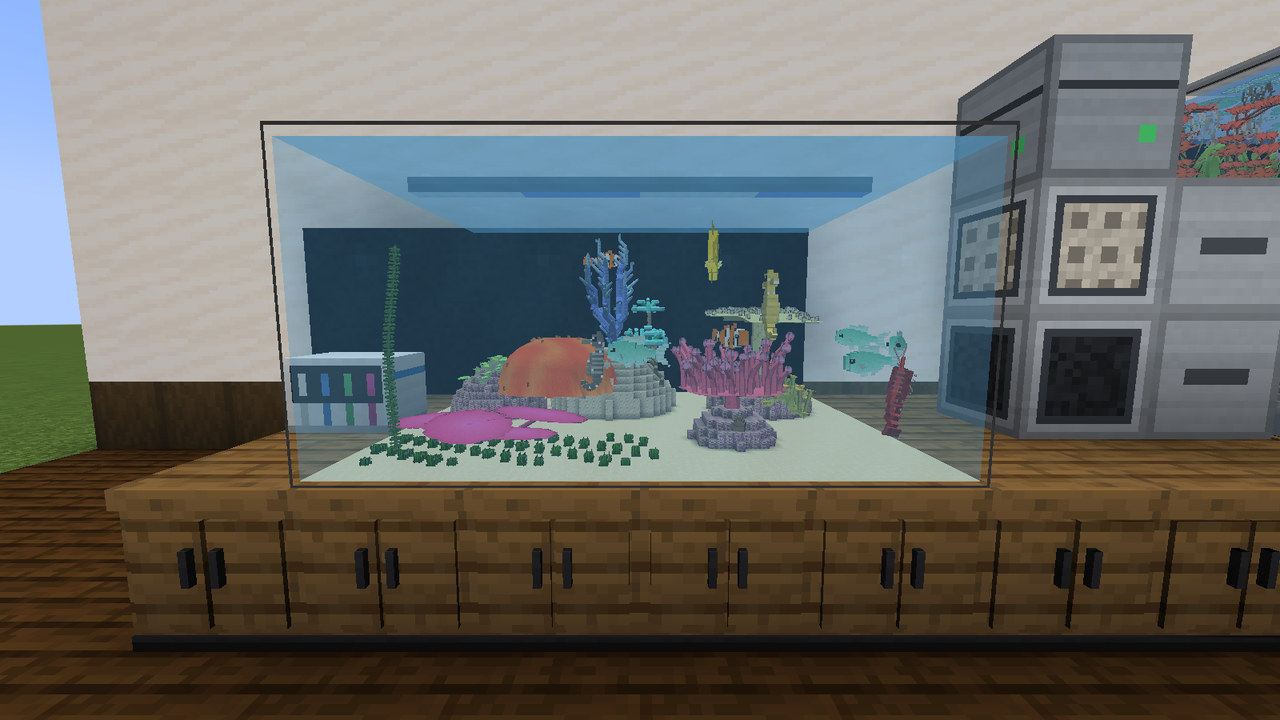
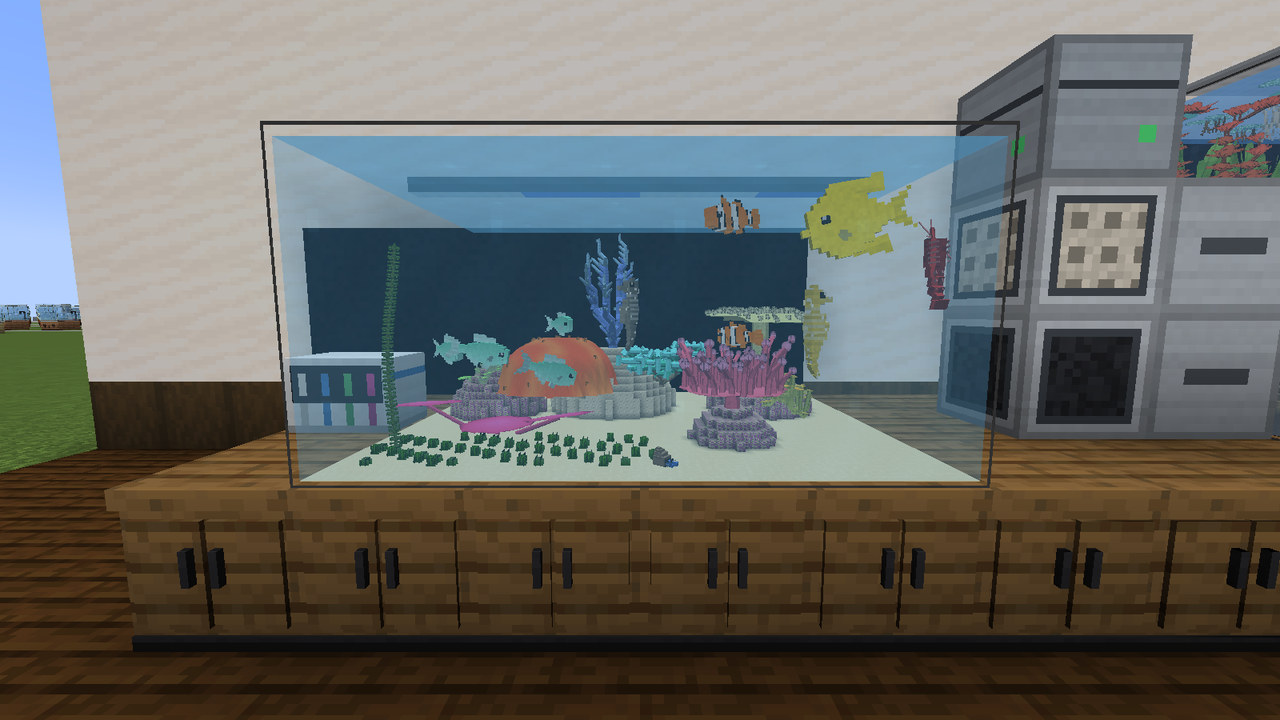
M43: new README and CurseForge media from the showcase world (flaring betta, plant growth time lapse, Amazon and shrimp tanks, terraria, pets, filter lines, shader stills; room, planted, reef, varieties, interior and menus taken again), the mod page English only with the feature sections, FAQ and ac

diff --git a/docs/description.md b/docs/description.md
@@ -2,10 +2,11 @@
 
 # Bettacraft
 
-**Betta fish and real aquariums for Minecraft 1.21.1 (NeoForge).** Catch wild bettas and tankmates, keep them in
-multiblock aquariums of any glass and shape, aquascape the inside block by block with plants and corals that sway in the
-water, run filters, lights, CO2, pipes and reef dosing, culture live food, and breed new colours with real Mendel
-genetics. Made for big modpacks such as All the Mods 10, and fine on its own.
+**Realistic fishkeeping in Minecraft 1.21.1 (NeoForge).** Catch wild bettas and tankmates, keep them in multiblock
+aquariums of any glass and shape, aquascape the inside block by block with plants and corals that sway in the water, run
+filters, lights, CO2, pipes and reef dosing, culture live food, and breed new colours with real Mendel genetics. Water
+chemistry, temperature, stocking and food all matter, the way they do in a real tank. Made for big modpacks such as All
+the Mods 10, and fine on its own.
 
 ![An aquarium room: a reef tank, a planted show tank with LED panels, CO2 and a multiblock filter, and a betta nano tank](images/bettacraft-aquarium-room.jpg)
 
@@ -22,25 +23,26 @@ genetics. Made for big modpacks such as All the Mods 10, and fine on its own.
 - **Breeding:** condition the pair with live food, give them floating plants for the bubble nest, and raise eggs,
   larvae and fry through six life stages on infusoria and artemia that you culture yourself. Two adult males flare and
   fight, also at a mirror stick. The breeding tab shows Punnett squares.
-- **Two sizes:** Normal (the default) or Large (the size before 1.28), one server setting for everyone; only the look
-  and the hitbox change.
+- **Two sizes:** Normal (the default, close to a real betta next to a block) or Large, one server setting for everyone;
+  only the look and the hitbox change.
 
 ![Six betta varieties: Koi Galaxy, Black Orchid, Mustard Gas, Samurai, Avatar, Hellboy](images/bettacraft-betta-varieties.jpg)
 
-## Aquariums you build yourself
+![A Mustard Gas halfmoon male spreads its fins and flares](images/bettacraft-betta-flaring.gif)
+
+## Tanks and the interior
 
 - **Multiblock tanks** of any glass and any connected shape (box, L, T, steps ...), up to 16x16x16 (configurable up to
-  64; big tanks up to 32x16x32), with the connected texture of the glass or perfectly clear. Real vanilla water, filled bucket by bucket, and the
-  animals are real entities.
+  64; big tanks up to 32x16x32), with the connected texture of the glass or perfectly clear. Real vanilla water, filled
+  bucket by bucket, and the animals are real entities.
 - **The interior:** sneak and right-click with an empty hand to step inside the tank, a pocket dimension at 16 blocks
   per tank block. Build with any block: substrates, equipment and 28 decorations: castles, shipwrecks and a ship's bow,
   aquascaping stones (Seiryu, dragon stone, holey rock, lava rock, slate caves), roots and spiderwood, clay tubes that
-  plecos breed in, a diving helmet and a treasure chest that bubbles from the air pump. Almond leaves and alder cones on
-  the floor lower the pH and feed the shrimp. Outside, the aquarium shows the result as a live miniature, and several
-  players can build at once.
+  plecos breed in, a diving helmet and a treasure chest that bubbles from the air pump. Outside, the aquarium shows the
+  result as a live miniature, and several players can build at once.
 - **Care:** temperature from biome and time of day, heaters and coolers, hunger, stocking, water quality, oxygen,
-  sickness and recovery. A tank menu with tabs (overview, inhabitants and their genes, breeding, water, devices,
-  plants, interior, log), name sign, owner lock and break protection.
+  sickness and recovery. A tank menu with tabs (overview, inhabitants and their genes, breeding, water, devices, plants,
+  interior, log), name sign, owner lock and break protection.
 
 ![Inside the planted tank at 16 blocks per tank block, plants swaying](images/bettacraft-tank-interior-swaying.gif)
 
@@ -52,95 +54,87 @@ genetics. Made for big modpacks such as All the Mods 10, and fine on its own.
   light, some need CO2 or soft water, are trimmed with shears and clean the water. The **Marimo** ball rolls with the
   current. **Floating plants** (duckweed, salvinia, water lettuce, hornwort ...) drift on the surface and spread.
 - **Liquid fertilizer** from the fertilizer maker makes them grow faster; too much feeds the algae.
-- **Plants of Minecraft and other mods work too:** kelp, seagrass, corals and the water plants of Fintastic, Regions
-  Unexplored, Twilight Forest and Alex's Caves lower the nitrate and count for breeding, without growing or needs.
+- **Plants of Minecraft and other mods work too:** kelp, seagrass, corals and the water plants of other mods lower the
+  nitrate and count for breeding, without growing or needs.
 - **Every plant grows wild** in the waters it comes from (jungle, swamp, river, mangrove, cold lakes, lush caves):
   shears cut a cutting, floating plants lie on calm water like lily pads.
 - Every plant and coral has real leaves, polyps and tentacles that **sway in the water**, inside and in the miniature;
   zoanthids and star polyps close when a fish swims by.
 
-![A planted tank with a betta, tetras and rasboras](images/bettacraft-planted-tank.jpg)
+![A time lapse: cuttings grow into Vallisneria, Rotala, Ludwigia, a sword plant and a Monte Carlo carpet](images/bettacraft-plant-growth.gif)
 
-## Tankmates and small animals
+## Shrimp, snails and other small animals
+
+- **Neocaridina in eleven colours** with selection grades that you breed up, bee shrimp from Crystal Red S to SSS,
+  Sulawesi shrimp and snails, dwarf crayfish, nerites, apple snails, ramshorns and dwarf clawed frogs. Algae grow, and the
+  cleaning crew eats them.
+- **Big crayfish** (blue and orange Florida crayfish, the all-female marbled crayfish) eat plants and catch slow fish.
+- **Axolotls** get real care in a cool tank: eggs on the plants, larvae, and the five colours inherited by Mendel.
+
+![A shrimp tank: Neocaridina in every colour, bee shrimp, nerites and a dwarf crayfish on moss and wood](images/bettacraft-shrimp-tank-crawling.gif)
+
+## Tankmates
 
 - **48 freshwater tankmates** with their own models and behaviour: tetras, rasboras and danios, rainbowfish, corydoras,
   plecos, loaches, barbs, guppies and endlers (with their own genetics and 28 strains), platys, mollies, swordtails,
-  gouramis, **cichlids** (rams, Apistogramma, angelfish, discus) and **puffers** that eat snails. Shoals, water ranges,
-  predators and prey, fin nippers, and a breeding style for every species: open and cave brooders guard their young.
-- **Shrimp, snails and more:** Neocaridina in eleven colours with selection grades, bee shrimp from Crystal Red S to
-  SSS, Sulawesi shrimp and snails, dwarf crayfish, nerites, apple snails, ramshorns and dwarf clawed frogs. Algae grow,
-  and the cleaning crew eats them. **Big crayfish** (blue and orange Florida crayfish, the all-female marbled crayfish)
-  eat plants and catch slow fish.
-- **Axolotls** get real care in a cool tank: eggs on the plants, larvae, and the five colours inherited by Mendel.
+  gouramis, **cichlids** (rams, Apistogramma, angelfish, discus) and **puffers** that eat snails.
+- Shoals, water ranges, predators and prey, fin nippers, and a breeding style for every species: open and cave brooders
+  guard their young.
 - **Water animals of other mods** live in the aquariums too; whales, bosses and hostile mobs are refused with a reason.
 
-## Reef tanks and seahorses
+![An Amazon tank: discus, rummy nose and cardinal tetras over sand and roots between sword plants and Vallisneria](images/bettacraft-amazon-tank-swimming.gif)
+
+## Salt water, reef tanks and seahorses
 
 - Sea water and salinity, protein skimmer, flow pump, live rock and actinic light. Eight corals and the bubble tip
   anemone grow with light, flow, calcium, alkalinity and magnesium from a four-channel dosing pump, and they bleach,
   glow and give frags. Clownfish spawn at their anemone; tangs, gobies, chromis, damsels, cleaner shrimp, hermit crabs.
 - **Seahorses** swim upright, hold on to plants and corals, and the male gives birth from his brood pouch.
+- **Big tanks** up to 32 x 16 x 32 blocks with a size rule for big animals by their real length: the bamboo shark that
+  lays egg cases, the blacktip reef shark, eagle and cownose rays, the honeycomb moray, and in fresh water pangasius,
+  redtail and wels catfish, the arapaima and the motoro stingray. Vanilla **dolphins** live in very big sea water tanks.
+  Catch the giants with the large net or a steel leader on your fishing rod into a transport tub.
 
 ![A reef tank: clownfish at their anemone, green chromis, a yellow tang, seahorses and corals](images/bettacraft-reef-tank-swimming.gif)
 
-## Big tanks and big animals
+![A big sea water tank with a blacktip reef shark, eagle and cownose rays and a bamboo shark](images/bettacraft-big-sea-tank.jpg)
 
-- **Big tanks** up to 32 x 16 x 32 blocks with a coarser interior, and a **size rule** for big animals by their real
-  length: a 1 m bamboo shark needs 12 x 6 x 3 blocks, a dolphin 32 x 16 x 8.
-- **Ten giants:** pangasius, redtail and wels catfish, arapaima and the motoro stingray in fresh water; the bamboo shark
-  that lays egg cases (mermaid's purses), the blacktip reef shark, the spotted eagle ray, schooling cownose rays and the
-  honeycomb moray that lives in a lair under your rocks in sea water. Vanilla **dolphins** live in very big sea water
-  tanks and take raw fish from the feeder.
-- Catch them with the **large net** or a **steel leader** on your fishing rod into a **transport tub**; they swim wide
-  curves, turn slowly and eat the small fish of their tank.
-
-![A big sea water tank with a blacktip reef shark, a bamboo shark and its egg cases, eagle and cownose rays](images/bettacraft-big-sea-tank.jpg)
-
-## Terraria, turtles, frogs and mobs in glass
+## Terraria and paludaria
 
 - A tank without water is a **terrarium**, one with water and land a **paludarium**, with air temperature, humidity and
   UV from heat mats, basking lamps and misters. Fix the tank type in the menu and a terrarium is never flooded by mistake.
 - **Turtles** (musk turtle, sliders, Hermann's tortoise, Reeves' turtle) lay eggs in the sand, and the nest temperature
   decides whether males or females hatch. **Poison dart frogs** with tadpoles, a horned frog that sits buried, **geckos**
   that climb the glass and a **corn snake**.
-- **Land animals of other mods:** the Naturalist tortoise, alligator, lizard, snake, scorpions, crab, dragonfly, duck and
-  capybara and the Critters and Companions otter, dragonfly and leaf insect live in terraria and paludaria with our care
-  and breeding; catch them with the terrarium box. Fish swim in the water part of a paludarium, and sea turtles go into big
-  sea water paludaria with a beach.
-- **Insects, small mammals and birds** of Naturalist, Critters and Companions and Living Things in terraria: butterflies
-  and fireflies (they glow at night) under a lid, beetles, hedgehogs, ferrets, red pandas, koalas, owls, penguins and
-  flamingos; woodlice and snails clean up the leftovers; the komodo dragon, bears and lions in big terraria.
+- **Land animals of other mods** (insects, small mammals, birds and reptiles of Naturalist, Critters and Companions and
+  Living Things) live in terraria with our care and breeding; catch them with the terrarium box.
 - **Minecraft animals as pets:** chickens with chicks from eggs in the sand, rabbits on grass, bees with flowers and a
-  mini beehive, frogs, cats, foxes, parrots and more at their real size; cows, horses and pandas in big terraria. No drops,
-  no farm.
-- **Mobs in glass:** drowned, zombies, skeletons, spiders and small slimes live shrunk and harmless in a tank. Weaken one
-  and catch it in a **mob jar**, lure it into an open tank with bait, or bring it in an EnderIO soul vial. A zombie under
-  water becomes a drowned, fed pairs breed, and mobs in glass never drop anything: decoration, not a farm.
+  mini beehive, frogs, cats, foxes and more at their real size. No drops, no farm.
+- **Mobs in glass:** drowned, zombies, skeletons, spiders and small slimes live shrunk and harmless in a tank. Catch one
+  in a **mob jar** or lure it in with bait: decoration, not a farm.
 
-## Equipment, water and chemistry
+![A paludarium with sliders and a musk turtle under a basking lamp, and a leopard gecko terrarium](images/bettacraft-terraria.jpg)
 
-- Internal, external, sponge and corner filters, cabinets of any wood or stone, automatic and clip-on feeders, air
-  pumps with air stones, light bars and LED panels in 16 colours with dimmer and daylight timer.
-- **Pipes and water changes:** glass and stainless steel pipes and pumps carry water with all its values, a multiblock
-  filter of any size with media that clog, nitrate that makes water changes matter, and a water change controller that
-  does them for you.
-- **One filter, many aquariums:** filter pipes with T-pieces dock on any side of a tank (with guards inside), up to four
-  lines run in one pipe bundle, fresh and waste water ports change the water of every tank of the filter, and a pipe cover
-  hides the pipes behind any block.
+![A terrarium with Minecraft pets: chickens, rabbits, a bee at its mini beehive and a cat](images/bettacraft-terrarium-pets.jpg)
+
+## Technology
+
+- **Equipment:** internal, external, sponge and corner filters, cabinets of any wood or stone, automatic and clip-on
+  feeders, air pumps with air stones, light bars and LED panels in 16 colours with dimmer and daylight timer.
+- **Pipes and the multiblock filter:** glass and stainless steel pipes and pumps carry water with all its values. A
+  multiblock filter of any size with media that clog serves several aquariums: filter pipes with T-pieces dock on any side
+  of a tank, up to four lines run in one pipe bundle, fresh and waste water ports change the water of every tank of the
+  filter, and a pipe cover hides the pipes behind any block.
 - **Water chemistry:** TDS, pH and hardness from the water, the substrate, driftwood, leaves and CO2, with a range for
-  every animal. CO2 cylinders and bio CO2, a reverse osmosis unit, and RO and sea water as fluids for other mods.
-- Optional Forge Energy for the equipment, or a **crank** that winds the filters, water devices and the cabinet under a
-  tank instead, or with Create a **drive adapter** that runs the whole tank on rotation. All sounds are generated by the
-  mod's own tools.
+  every animal. CO2 cylinders and bio CO2, a reverse osmosis unit, nitrate that makes water changes matter, and a water
+  change controller that does them for you.
+- **Food:** live food cultures (tubifex, daphnia, mosquito larvae, artemia) that a live food pump sends through the pipes;
+  a food maker for pellets, flakes, wafers and frozen food; a varied diet makes the colours stronger.
+- **Power, your choice:** by default nothing needs energy. With the power options on, the devices take Forge Energy, or
+  you wind them with a **crank**, or with Create a **drive adapter** runs every device of a tank on rotation with real
+  stress.
 
-## Food and live food
-
-- **Live food cultures:** tubifex worms, daphnia, mosquito larvae and artemia grow, go stale and crash when crowded or
-  hot. A **live food pump** sends them through the pipes into the tanks on a schedule.
-- **Food maker:** pellets, flakes, granules, algae wafers, fry powder, shrimp food and frozen food from vanilla
-  ingredients and live food, on a spring wound with the crank or on FE. Hoppers, AE2 and Refined Storage fill and empty it.
-- **Food variety:** every kind of eater has favourite and poorly suited food; a varied diet helps the fish recover and
-  makes the bettas' colours stronger.
+![One multiblock filter for two tanks: filter pipes with T-pieces, a pipe bundle with four lines, fresh and waste water ports and pipe covers](images/bettacraft-filter-lines.jpg)
 
 ## Handbook and menus
 
@@ -155,73 +149,63 @@ where to get it, 31 advancements, JEI pages and tooltips. Without GuideME every 
   required.
 - **Handbook and info:** GuideME (handbook), JEI (information pages), Jade, The One Probe and WTHIT (aquarium, betta,
   filter and cabinet lines).
-- **Aquarium and fish mods:** Better Fish Tanks, Fintastic, Fish of Thieves, Aquaculture 2, Naturalist, and the small
-  water animals of any mod.
+- **Aquarium and animal mods:** Better Fish Tanks, Fintastic, Fish of Thieves, Aquaculture 2, Naturalist, Critters and
+  Companions and Living Things: their animals get our care and breeding (their young inherit their colours), the giants go
+  into big tanks by their real length, their land animals into terraria; deep-sea, giant and hostile animals are refused
+  with a reason; modpacks add profiles for any animal.
 - **Tech mods:** Mekanism, EnderIO, Create and Thermal make stainless steel; their tanks and pipes connect to Bettacraft
   pipes, aquariums and reservoirs (also AE2 and Refined Storage interfaces); CO2 gas of other mods fills CO2 cylinders.
-  The facades of AE2, EnderIO, Mekanism Covers and **Cable Facades** hide the filter pipes.
-- **Animals of other mods:** the fish of Fintastic, Aquaculture 2, Fish of Thieves, Critters and Companions, Naturalist and
-  Living Things get our care and breeding in Bettacraft aquariums (their young inherit their colours), the giants go into
-  big tanks by their real length, their land animals live in terraria and paludaria; deep-sea, giant and hostile animals
-  are refused with a reason; modpacks add profiles for any animal.
+  The facades of AE2, EnderIO, Mekanism Covers and Cable Facades hide the filter pipes.
 - **Create and Create Aeronautics:** aquariums travel on contraptions, trains and airships with their animals; rotation
-  drives pumps, the reverse osmosis unit, the food maker and the fertilizer maker, and a **drive adapter** on a tank (or a
-  shaft on its cabinet) powers every device of the tank, with real stress; Display Links show tank values. **AE2 and Refined
-  Storage** autocrafting feeds the food maker and the crucible; **Mekanism** tanks take the Bettacraft fluids.
+  drives pumps, the reverse osmosis unit, the food maker and the fertilizer maker, and the drive adapter powers a whole
+  tank; Display Links show tank values. AE2 and Refined Storage autocrafting feeds the food maker and the crucible.
 - **For modpacks:** an FTB Quests chapter "Bettacraft" (33 quests, English and German), KubeJS events (animal born,
-  animal died, monitor alarm), **JourneyMap** waypoints at tanks with a monitor alarm, a switch for every feature,
-  presets (simple, realistic, decoration only) and `/bettacraft foreign list` to see which animals of other mods still
-  need a profile.
+  animal died, monitor alarm), JourneyMap waypoints at tanks with a monitor alarm, and `/bettacraft foreign list` to see
+  which animals of other mods still need a profile.
 - **Biome mods:** the swamps, rivers, mangroves and warm oceans of Regions Unexplored, Oh The Biomes We've Gone, Biomes
   O' Plenty and others get the wild animals, plants and corals (biome tags).
 - **Sodium and Iris:** supported, water and miniatures render correctly with shaders.
 
-![The aquarium room with Complementary shaders](images/bettacraft-aquarium-room-shaders.jpg)
+![The aquarium room with Complementary Reimagined shaders](images/bettacraft-aquarium-room-shaders.jpg)
+
+![The planted tank with Complementary Reimagined shaders](images/bettacraft-planted-tank-shaders.jpg)
+
+![Inside the planted tank with Complementary Reimagined shaders: shadows of the plants on the substrate](images/bettacraft-tank-interior-shaders.jpg)
 
 ## FAQ
 
 **Does it work with shaders?** Yes. Sodium and Iris are supported, the water and the miniatures render correctly. The
-pictures above were taken with Complementary Reimagined.
+last three pictures under Compatibility were taken with Complementary Reimagined; every other picture on this page is
+without shaders.
 
 **Can I use it in my modpack?** Yes. The mod is MIT licensed (code and all assets), so you may include it in any pack.
-Every feature has its own switch (`features.*` in `config/bettacraft-common.toml`, 105 in all): off, it loses its
-recipes, trades, loot and spawns, hides from the creative tab, JEI and the handbook, and its logic rests. Presets
-(`preset = SIMPLE | REALISTIC | DECOR`) set other defaults in one line, `care.mode = NO_DEATH` keeps every animal alive,
-and datapacks can use the `bettacraft:feature` recipe and loot condition. Tags and datapacks control spawns, food,
-inhabitants and genetics.
+Tags and datapacks control spawns, food, inhabitants and genetics, and the pack files (quest chapter, KubeJS example)
+come with every release.
+
+**Can I turn features off?** Yes. Every feature has its own switch (`features.*` in `config/bettacraft-common.toml`, 105
+in all): off, it loses its recipes, trades, loot and spawns, hides from the creative tab, JEI and the handbook, and its
+logic rests. Presets (`preset = SIMPLE | REALISTIC | DECOR`) set other defaults in one line, `care.mode = NO_DEATH` keeps
+every animal alive, and datapacks can use the `bettacraft:feature` recipe and loot condition.
 
 **Where is the config?** `serverconfig/bettacraft-server.toml` in the world (tank size, animals, breeding, water, power
-...), `config/bettacraft-common.toml` (spawns, feature switches) and `config/bettacraft-client.toml` (render
-distances, connected glass, effects). Every option can also be changed in game: Mods > Bettacraft > Config.
+...), `config/bettacraft-common.toml` (spawns, feature switches) and `config/bettacraft-client.toml` (render distances,
+connected glass, effects). Every option can also be changed in game: Mods > Bettacraft > Config.
 
-**Do I need power?** No. By default no device needs energy; with the power options on they take Forge Energy, or you
-wind them with the crank.
+**Do I need power?** No. By default no device needs energy; with the power options on they take Forge Energy, a crank or
+Create rotation.
 
-**Will my fish die while I am away?** By default time stands still for aquariums in unloaded chunks, and water
-quality and evaporation are on but gentle.
+**Will my fish die while I am away?** By default time stands still for aquariums in unloaded chunks, and water quality and
+evaporation are on but gentle.
 
 **Is it a beta?** Yes. Worlds are migrated between versions and nothing should get lost, but keep backups. Bugs and
 ideas go to the [issue tracker](https://github.com/0verEngineer/BettaCraft/issues).
 
-## Credits
+## Acknowledgements
 
 - Code, procedural textures, models, sounds and the logo: 0verEngineer. Every asset comes from the mod's own generator
   (`tools/assetgen`), no third-party assets are used. Licence: MIT.
-- Developed with the help of AI coding tools; the screenshots and animations are real in-game captures.
-- Inspired by real betta and aquarium keeping. Thanks to the authors of NeoForge, GuideME, JEI, Jade and the mods
-  Bettacraft works with.
+- Developed with the help of AI coding tools. The pictures and animations on this page are real in-game captures of the
+  mod, taken automatically in its showcase world.
+- Inspired by real betta and aquarium keeping. Thanks to the authors of NeoForge, GuideME, JEI, Jade, Sodium, Iris,
+  Complementary Reimagined and the mods Bettacraft works with.
 - Source code, changelog and issues: [github.com/0verEngineer/BettaCraft](https://github.com/0verEngineer/BettaCraft).
-
-## Kurz auf Deutsch
-
-Bettacraft bringt Kampffische (Bettas) und echte Aquarien nach Minecraft 1.21.1 (NeoForge): Wildfänge aus dem Sumpf,
-Zucht nach Mendel mit Hunderten Farbformen, Multiblock-Aquarien aus beliebigem Glas, eine begehbare Innenwelt zum
-Einrichten mit Wracks, Aquascaping-Steinen und Wurzeln, fast 50 wachsende Pflanzen und Korallen, fast 50 Beifische (Buntbarsche, Kugelfische, Guramis …), Garnelen, Schnecken, große Krebse, Axolotl-Zucht, Meerwasser mit Seepferdchen, Großbecken mit Haien, Rochen, Riesenwelsen und Delfinen, Terrarien und Paludarien mit Schildkröten, Pfeilgiftfröschen,
-Geckos und Kornnattern, Landtieren, Insekten, Säugetieren und Vögeln anderer Mods (Naturalist, Critters and Companions,
-Living Things), Minecraft-Tieren als Terrarien-Haustieren (Hühner, Kaninchen, Bienen, Frösche …), verkleinerte Mobs im Glas, Filter,
-Licht, CO2, Rohre (ein Multiblock-Filter für mehrere Becken, Rohrbündel und Verkleidungen), Wasserchemie, Flüssigdünger, Lebendfutter und eine Futtermaschine, und eine Kurbel für alle, die ohne
-Stromerzeuger spielen. Fische anderer Mods (Fintastic, Aquaculture, Fish of Thieves …, die Riesen im Großbecken)
-bekommen unsere Pflege und Zucht, Kelp, Seegras, Korallen und Wasserpflanzen anderer Mods wirken im Becken wie unsere, Becken fahren auf Create-Contraptions und Luftschiffen mit und laufen mit einem Antriebsadapter an Creates Drehkraft (mit echtem Stress), und für Modpacks gibt es
-ein FTB-Quests-Kapitel, KubeJS-Events, JourneyMap-Wegpunkte bei Alarmen, einen Schalter für jedes Feature und
-Voreinstellungen (einfach, realistisch, nur Deko). Die Mod und das Handbuch im Spiel sind
-komplett auf Deutsch übersetzt; die Spielsprache Deutsch genügt.

diff --git a/README.md b/README.md
@@ -14,14 +14,31 @@ run filters, lights, CO2 and reef dosing, and breed new colours with real Mendel
     <td><img src="docs/images/bettacraft-reef-tank-swimming.gif" alt="A reef tank: clownfish at their anemone, green chromis, a yellow tang, seahorses and corals"></td>
   </tr>
   <tr>
+    <td><img src="docs/images/bettacraft-betta-flaring.gif" alt="A Mustard Gas halfmoon male spreads its fins and flares"></td>
+    <td><img src="docs/images/bettacraft-plant-growth.gif" alt="A time lapse: cuttings grow into Vallisneria, Rotala, Ludwigia, a sword plant and a Monte Carlo carpet"></td>
+  </tr>
+  <tr>
+    <td><img src="docs/images/bettacraft-amazon-tank-swimming.gif" alt="An Amazon tank: discus, rummy nose and cardinal tetras between sword plants"></td>
+    <td><img src="docs/images/bettacraft-shrimp-tank-crawling.gif" alt="A shrimp tank: Neocaridina in every colour, bee shrimp, nerites and a dwarf crayfish"></td>
+  </tr>
+  <tr>
     <td><img src="docs/images/bettacraft-betta-varieties.jpg" alt="Six betta varieties in a row: Koi Galaxy, Black Orchid, Mustard Gas, Samurai, Avatar, Hellboy"></td>
     <td><img src="docs/images/bettacraft-tank-interior.jpg" alt="Inside the planted tank at 16 blocks per tank block"></td>
+  </tr>
+  <tr>
+    <td><img src="docs/images/bettacraft-terraria.jpg" alt="A paludarium with sliders and a musk turtle, and a leopard gecko terrarium"></td>
+    <td><img src="docs/images/bettacraft-big-sea-tank.jpg" alt="A big sea water tank with a blacktip reef shark, eagle and cownose rays and a bamboo shark"></td>
+  </tr>
+  <tr>
+    <td><img src="docs/images/bettacraft-filter-lines.jpg" alt="One multiblock filter for two tanks with filter pipes, T-pieces, a pipe bundle and pipe covers"></td>
+    <td><img src="docs/images/bettacraft-aquarium-room-shaders.jpg" alt="The aquarium room with Complementary Reimagined shaders"></td>
   </tr>
 </table>
 
 ![The tank menu with the genes of a betta and the water values, and the handbook page on genetics](docs/images/bettacraft-menus.png)
 
-More pictures and animations (also with Complementary shaders) are in [docs/images](docs/images).
+More pictures and animations (most also with Complementary Reimagined shaders) are in [docs/images](docs/images); they
+are made in the showcase world by `gradlew runClient -Psmoketestm43` (see "Building from source").
 
 ## Features
 
@@ -281,7 +298,8 @@ and evaporation are on but gentle, and no equipment needs power (`power.*Require
 ./gradlew runClient             # dev client with Jade, JEI, GuideME and the aquarium mods
 ./gradlew buildShowcase         # (re)builds the showcase world "Bettacraft Schaukasten" in run/saves (no window)
 ./gradlew runMultiplayerTest    # dedicated server + two background clients (Dev1, Dev2) play a scripted session
-./gradlew runClient -Psmoketestreadme -PnoJei   # README media scene (background window), then:
+./gradlew runClient -Psmoketestm43 -PnoJei      # README / mod page media in a copy of the showcase world (background
+./gradlew runClient -Psmoketestm43 -PnoJei -Pshaders  # window; fixed day and weather), then the stills with Complementary
 py tools/assetgen/readme_media.py       # run/screenshots -> docs/images (stills, GIF and WebP animations)
 ```
 
